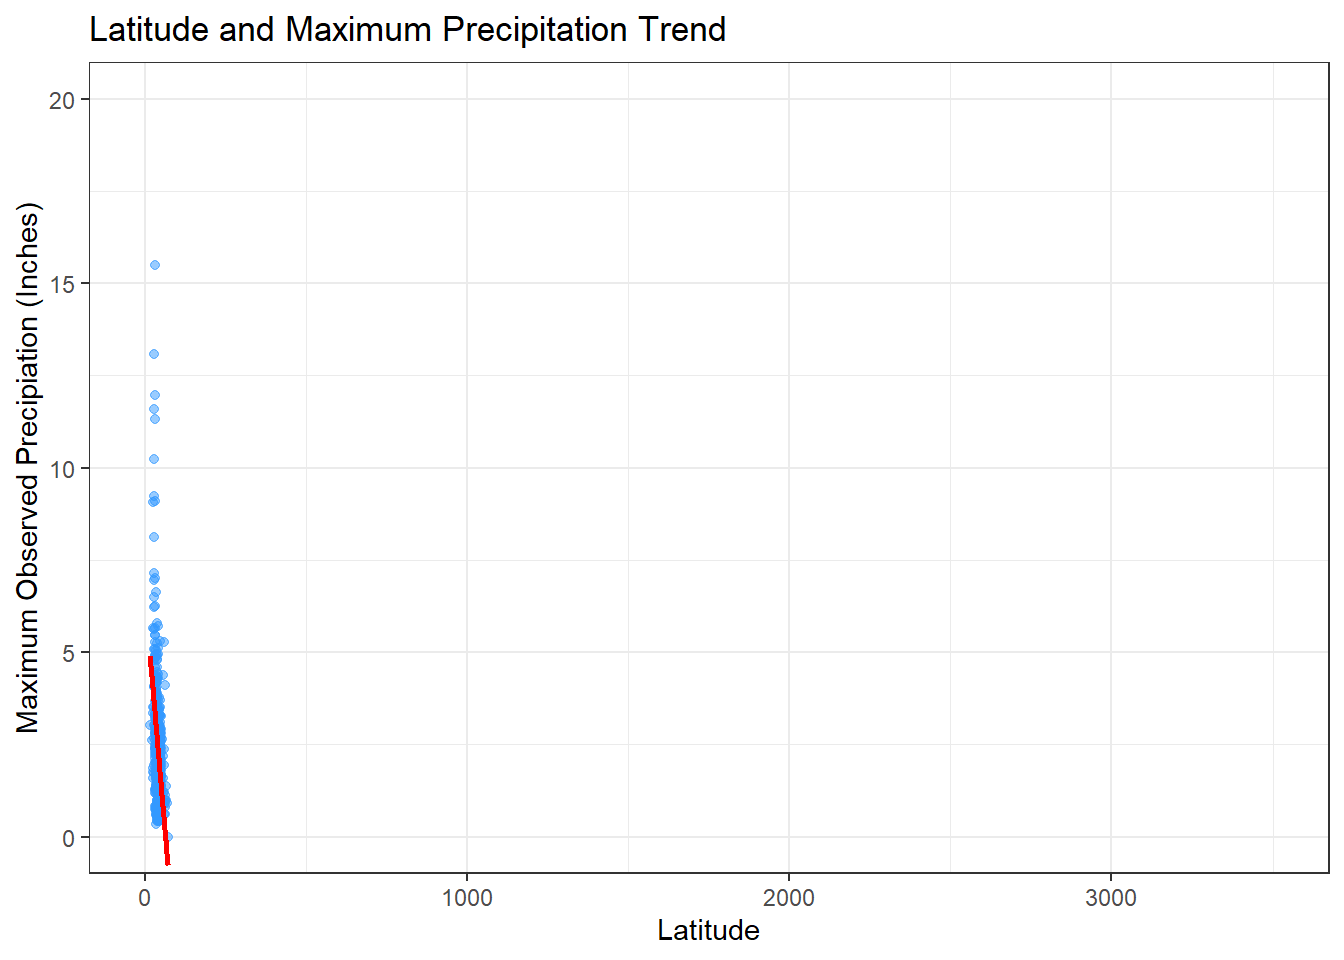
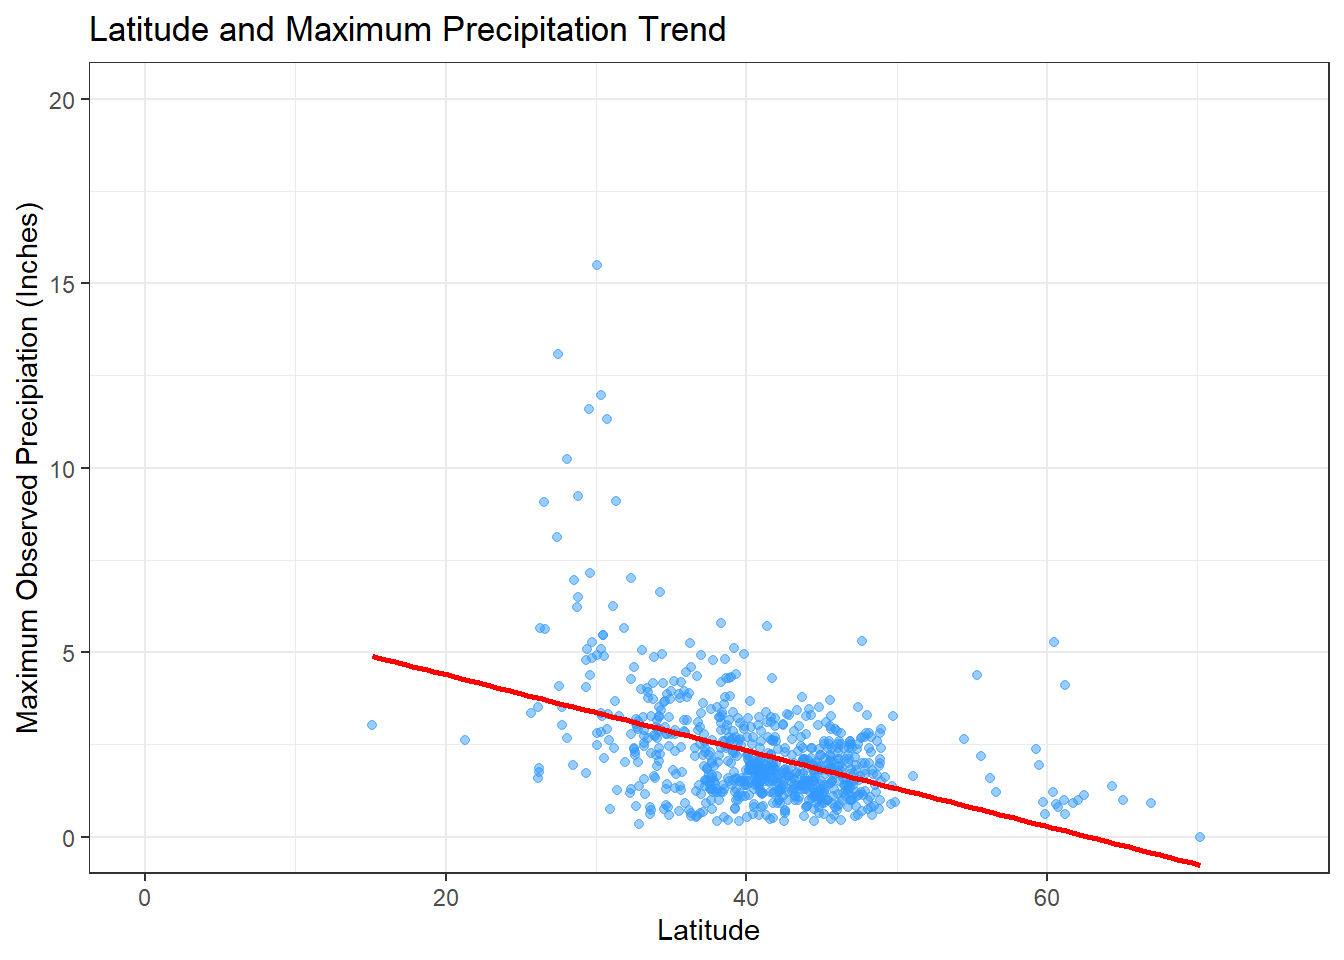
Final- All charts added.

diff --git a/public/2021/06/27/final-project/index.html b/public/2021/06/27/final-project/index.html
@@ -84,8 +84,10 @@
 <p><img src="/2021/06/27/final-project/index_files/figure-html/unnamed-chunk-7-1.png" width="672" /></p>
 <p>Precipitation by Elevation</p>
 <p><img src="/2021/06/27/final-project/index_files/figure-html/unnamed-chunk-8-1.png" width="672" /></p>
-<p>Precipitation by Elevation</p>
+<p>Precipitation by Latitude</p>
 <p><img src="/2021/06/27/final-project/index_files/figure-html/unnamed-chunk-9-1.png" width="672" /></p>
+<p>Maximum 5 second Windspeed by Latitude</p>
+<p><img src="/2021/06/27/final-project/index_files/figure-html/unnamed-chunk-10-1.png" width="672" /></p>
 </div>
 
     </div>

diff --git a/content/post/2021-06-27-final-project/index.html b/content/post/2021-06-27-final-project/index.html
@@ -28,6 +28,8 @@ leafletmap: true
 <p><img src="{{< blogdown/postref >}}index_files/figure-html/unnamed-chunk-7-1.png" width="672" /></p>
 <p>Precipitation by Elevation</p>
 <p><img src="{{< blogdown/postref >}}index_files/figure-html/unnamed-chunk-8-1.png" width="672" /></p>
-<p>Precipitation by Elevation</p>
+<p>Precipitation by Latitude</p>
 <p><img src="{{< blogdown/postref >}}index_files/figure-html/unnamed-chunk-9-1.png" width="672" /></p>
+<p>Maximum 5 second Windspeed by Latitude</p>
+<p><img src="{{< blogdown/postref >}}index_files/figure-html/unnamed-chunk-10-1.png" width="672" /></p>
 </div>
